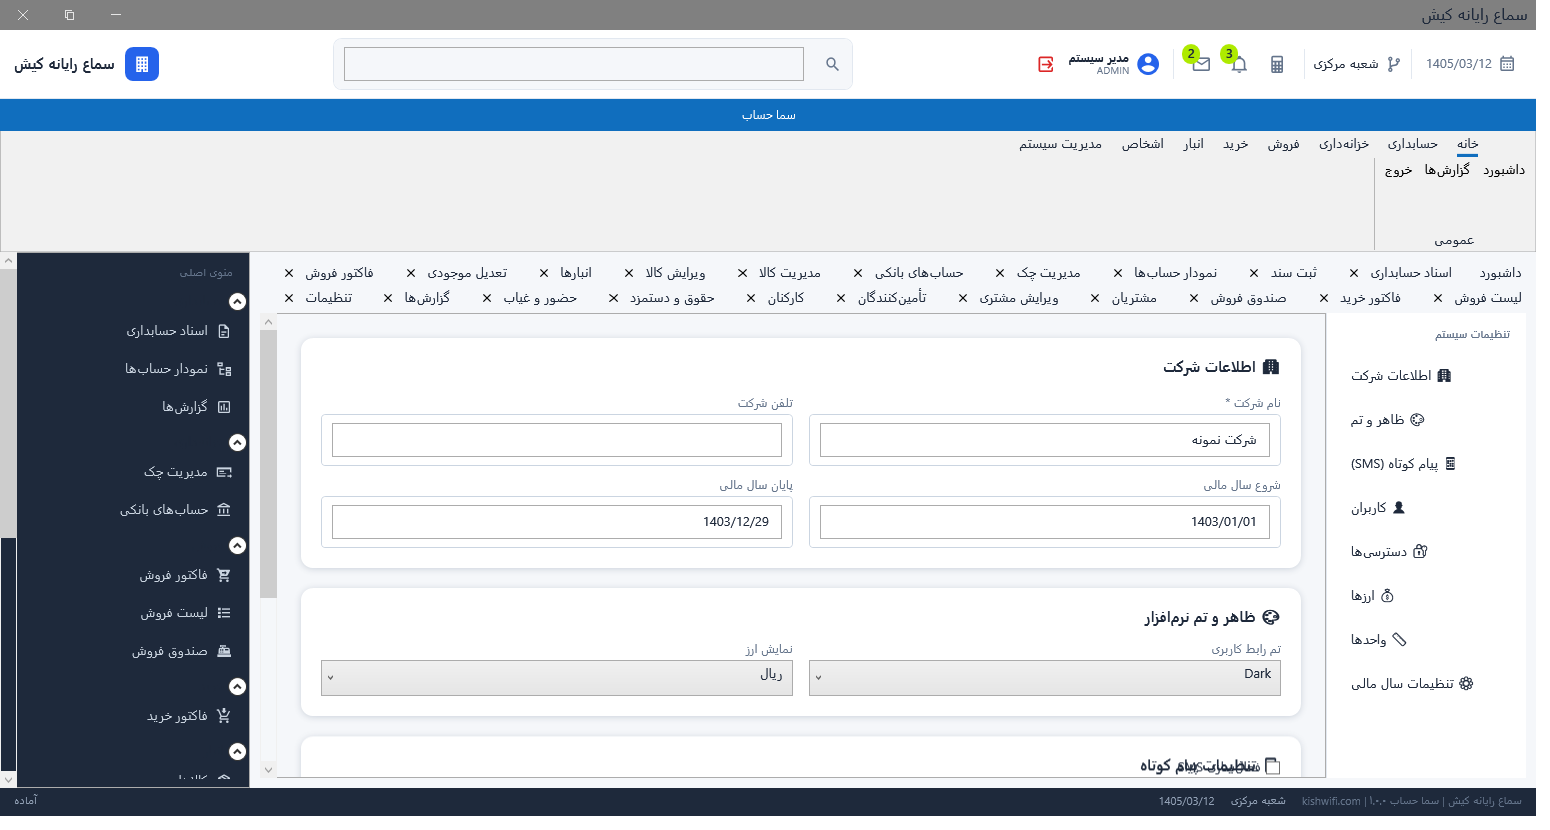
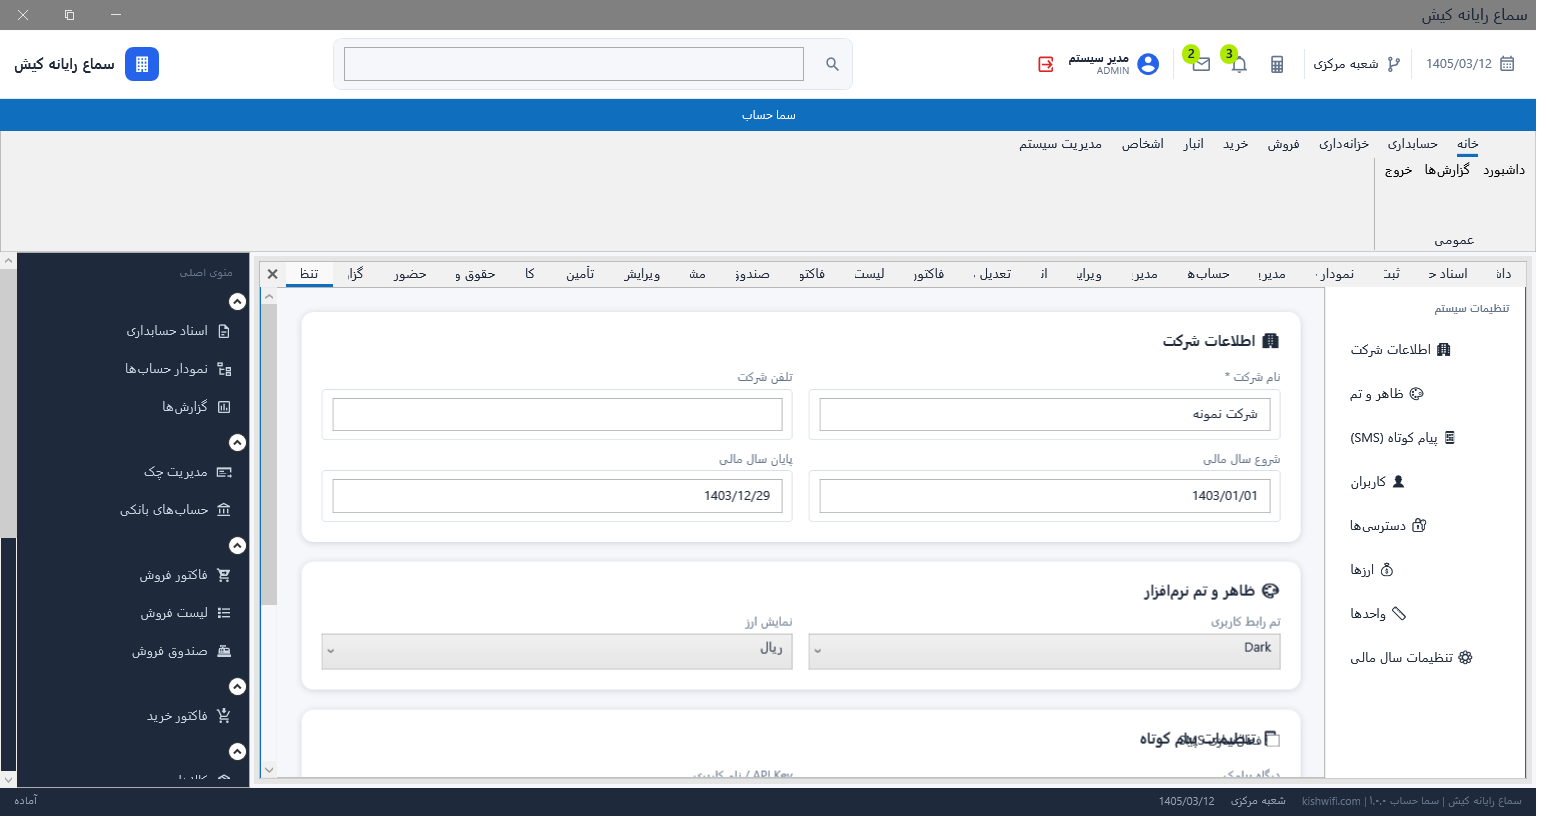
Major UI overhaul: Office2019 theme + RadRibbonView + RadDocking + grid-centric ERP
Shell (per professional-ERP review):
- Switch Telerik theme Fluent -> Office2019 (accounting-software look).
- Replace flat command bar with a real RadRibbonView (tabs: خانه/حسابداری/
  خزانهداری/فروش/خرید/انبار/اشخاص/مدیریت سیستم with RadRibbonGroup + RadRibbonButton).
- Replace workspace TabControl with RadDocking + RadDocumentPane MDI host
  (multiple screens open simultaneously); panes synced to OpenTabs in code-behind,
  close routes back to CloseTabCommand.
- Added Docking + RibbonView + Office2019 theme packages.

Data-entry / grids:
- Accounting voucher grid rebuilt with حساب کل/معین/تفصیلی columns (derived from
  account code) + column footers with Sum aggregates for بدهکار/بستانکار.
- Real RadGridViews added to previously-placeholder list screens: مشتریان،
  چکها، کارکنان، لیست فروش (were 'در حال توسعه').
- Enabled ShowSearchPanel + ShowColumnFooters + Sum aggregates across the main
  list/operational grids (products, suppliers, customers, cheques, vouchers,
  bank accounts, warehouses, employees, sales list).
- Screenshot routine (SAMA_SHOTS) renders every screen to /screenshot via
  RenderTargetBitmap.

Verified: builds 0 errors; all 23 screens render (RadDocking + Office2019 ribbon
confirmed via screenshots). Local only.

diff --git a/src/SamaHesab.WPF/Views/Shell/MainWindow.xaml b/src/SamaHesab.WPF/Views/Shell/MainWindow.xaml
@@ -383,33 +383,16 @@
                 <ColumnDefinition Width="250"/>
             </Grid.ColumnDefinitions>
 
-            <!-- Workspace tabs -->
-            <TabControl Grid.Column="0" Margin="8"
-                        ItemsSource="{Binding OpenTabs}"
-                        SelectedItem="{Binding SelectedTab, Mode=TwoWay}"
-                        Background="Transparent" BorderThickness="0">
-                <TabControl.ItemTemplate>
-                    <DataTemplate>
-                        <StackPanel Orientation="Horizontal">
-                            <TextBlock Text="{Binding Title}" VerticalAlignment="Center" FontSize="13"/>
-                            <Button Width="18" Height="18" Margin="8,0,0,0" Padding="0"
-                                    Background="Transparent" BorderThickness="0" Cursor="Hand"
-                                    Visibility="{Binding CanClose, Converter={StaticResource BoolVis}}"
-                                    Command="{Binding DataContext.CloseTabCommand, RelativeSource={RelativeSource AncestorType=TabControl}}"
-                                    CommandParameter="{Binding}">
-                                <materialDesign:PackIcon Kind="Close" Width="14" Height="14"/>
-                            </Button>
-                        </StackPanel>
-                    </DataTemplate>
-                </TabControl.ItemTemplate>
-                <TabControl.ContentTemplate>
-                    <DataTemplate>
-                        <Border Background="{DynamicResource AppBackground}">
-                            <ContentControl Content="{Binding Content}"/>
-                        </Border>
-                    </DataTemplate>
-                </TabControl.ContentTemplate>
-            </TabControl>
+            <!-- Workspace: Telerik RadDocking (MDI document host) -->
+            <telerik:RadDocking Grid.Column="0" x:Name="docking" Margin="4"
+                                Close="Docking_Close" BorderThickness="0"
+                                HasDocumentHost="True">
+                <telerik:RadDocking.DocumentHost>
+                    <telerik:RadSplitContainer>
+                        <telerik:RadPaneGroup x:Name="docGroup"/>
+                    </telerik:RadSplitContainer>
+                </telerik:RadDocking.DocumentHost>
+            </telerik:RadDocking>
 
             <!-- Tree navigation -->
             <Border Grid.Column="1" Background="{DynamicResource SidebarBackground}">

diff --git a/src/SamaHesab.WPF/App.xaml b/src/SamaHesab.WPF/App.xaml
@@ -24,6 +24,7 @@
                 <ResourceDictionary Source="pack://application:,,,/Telerik.Windows.Themes.Office2019;component/Themes/Telerik.Windows.Controls.Input.xaml"/>
                 <ResourceDictionary Source="pack://application:,,,/Telerik.Windows.Themes.Office2019;component/Themes/Telerik.Windows.Controls.Navigation.xaml"/>
                 <ResourceDictionary Source="pack://application:,,,/Telerik.Windows.Themes.Office2019;component/Themes/Telerik.Windows.Controls.RibbonView.xaml"/>
+                <ResourceDictionary Source="pack://application:,,,/Telerik.Windows.Themes.Office2019;component/Themes/Telerik.Windows.Controls.Docking.xaml"/>
                 <ResourceDictionary Source="pack://application:,,,/Telerik.Windows.Themes.Office2019;component/Themes/Telerik.Windows.Controls.GridView.xaml"/>
                 <ResourceDictionary Source="pack://application:,,,/Telerik.Windows.Themes.Office2019;component/Themes/Telerik.Windows.Controls.Data.xaml"/>
 

diff --git a/src/SamaHesab.WPF/Views/Shell/MainWindow.xaml.cs b/src/SamaHesab.WPF/Views/Shell/MainWindow.xaml.cs
@@ -1,14 +1,88 @@
+using System.Collections.Generic;
+using System.Collections.Specialized;
+using System.ComponentModel;
+using System.Linq;
+using System.Windows.Controls;
 using MahApps.Metro.Controls;
+using Telerik.Windows.Controls;
+using Telerik.Windows.Controls.Docking;
 using SamaHesab.WPF.ViewModels.Shell;
 
 namespace SamaHesab.WPF.Views.Shell;
 
 public partial class MainWindow : MetroWindow
 {
+    private readonly MainViewModel _vm;
+    private readonly Dictionary<WorkspaceTab, RadDocumentPane> _panes = new();
+    private bool _syncing;
+
     public MainWindow(MainViewModel viewModel)
     {
         InitializeComponent();
-        DataContext = viewModel;
+        DataContext = _vm = viewModel;
+        _vm.OpenTabs.CollectionChanged += OpenTabs_CollectionChanged;
+        _vm.PropertyChanged += Vm_PropertyChanged;
         Loaded += async (_, _) => await viewModel.LoadAsync();
+    }
+
+    private void OpenTabs_CollectionChanged(object? sender, NotifyCollectionChangedEventArgs e)
+    {
+        if (e.NewItems != null)
+            foreach (WorkspaceTab t in e.NewItems) AddPane(t);
+        if (e.OldItems != null)
+            foreach (WorkspaceTab t in e.OldItems) RemovePane(t);
+    }
+
+    private void AddPane(WorkspaceTab tab)
+    {
+        if (_panes.ContainsKey(tab)) { ActivatePane(tab); return; }
+        var pane = new RadDocumentPane
+        {
+            Header = tab.Title,
+            Content = new ContentControl { Content = tab.Content },
+            CanUserClose = tab.CanClose,
+            CanFloat = true,
+        };
+        pane.Tag = tab;
+        _panes[tab] = pane;
+        docGroup.Items.Add(pane);
+        ActivatePane(tab);
+    }
+
+    private void RemovePane(WorkspaceTab tab)
+    {
+        if (!_panes.TryGetValue(tab, out var pane)) return;
+        _panes.Remove(tab);
+        if (pane.PaneGroup != null) pane.RemoveFromParent();
+    }
+
+    private void ActivatePane(WorkspaceTab tab)
+    {
+        if (_syncing) return;
+        if (_panes.TryGetValue(tab, out var pane))
+        {
+            _syncing = true;
+            pane.IsSelected = true;
+            pane.IsActive = true;
+            _syncing = false;
+        }
+    }
+
+    private void Vm_PropertyChanged(object? sender, PropertyChangedEventArgs e)
+    {
+        if (e.PropertyName == nameof(MainViewModel.SelectedTab) && _vm.SelectedTab != null)
+            ActivatePane(_vm.SelectedTab);
+    }
+
+    // User closed a document pane → remove the matching workspace tab.
+    private void Docking_Close(object? sender, StateChangeEventArgs e)
+    {
+        foreach (var pane in e.Panes.OfType<RadDocumentPane>())
+            if (pane.Tag is WorkspaceTab tab)
+            {
+                _panes.Remove(tab);
+                if (_vm.OpenTabs.Contains(tab))
+                    _vm.CloseTabCommand.Execute(tab);
+            }
     }
 }
